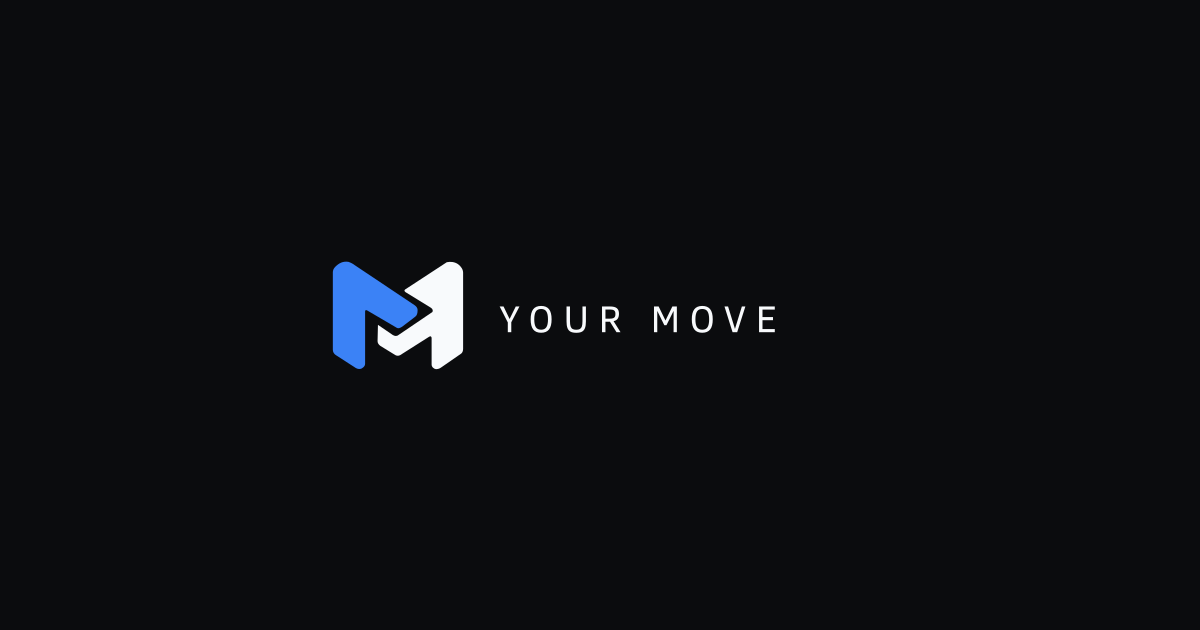
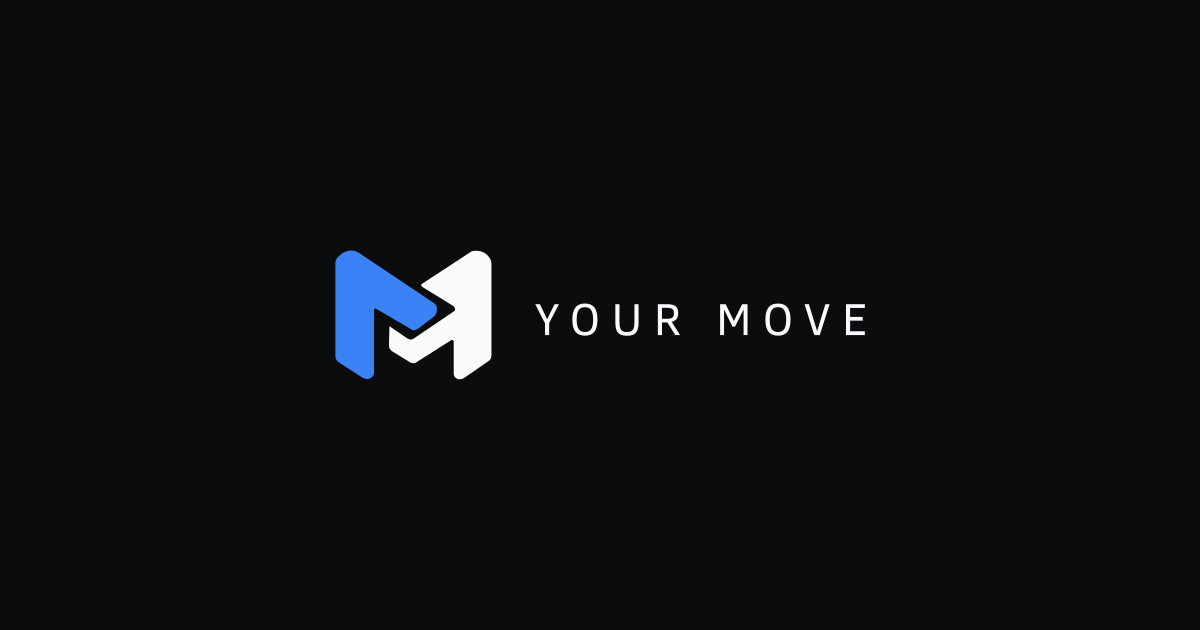
📝 docs(brand): update PNG export recipe and lockup specs
- Replace Inkscape CLI instructions with `sharp` Node.js library for PNG generation
- Update logo lockup viewBox from `0 0 1440 352` to `0 0 1202 352` with standardized padding
- Document open graph and preview image composition logic with precise dimensions and positioning
- Reflect updated logo dimensions in metadata (width 1202, megapixels 0.423)

Changed region(s): [[0.2775, 0.3921, 0.74, 0.6032]]

diff --git a/brand/README.md b/brand/README.md
@@ -32,6 +32,8 @@ It is drawn as filled Bézier paths, and the lettering is converted to outlines,
 
 `mark*` and `logo*` have transparent backgrounds; the mono variants are ice white. The `icon*` variants are opaque and square and leave launcher rounding to the operating system. The maskable variant keeps the whole mark inside Android's safe area.
 
+The lockup frame sits tight to the artwork: the three `logo*` variants share an identical `0 0 1202 352` viewBox with equal padding left and right (about 33px, matching the mark's framing) and equal padding top and bottom. Only the fills differ between variants, so every export centres without per-variant offsets.
+
 Default to the dark palette. On a light ground use the `-light` files so the companion half remains visible.
 
 ## Colours
@@ -59,36 +61,16 @@ The blue is a **brand colour, not a workflow-state colour**. The application's e
 
 ## Regenerate the PNGs
 
-Never edit a PNG. From the repository root, with Inkscape installed:
+Never edit a PNG. Exports are produced with `sharp`, already in `node_modules` — Inkscape is not required. The recipe throughout is `sharp(src).resize({ width }).png().toFile(out)`:
 
 ```sh
-for name in mark mark-light mark-mono; do
-  inkscape "brand/svg/$name.svg" --export-type=png \
-    --export-width=1200 --export-filename="brand/png/$name-1200.png"
-done
+node -e "require('sharp')('brand/svg/logo.svg').resize({ width: 2880 }).png().toFile('brand/png/logo-2880.png')"
 ```
 
-```sh
-for name in logo logo-light logo-mono; do
-  inkscape "brand/svg/$name.svg" --export-type=png \
-    --export-width=2880 --export-filename="brand/png/$name-2880.png"
-done
-```
+Marks export at width 1200 and icons at their listed sizes following the same pattern.
 
-```sh
-for size in 16 32 180 192 512 1024; do
-  inkscape brand/svg/icon.svg --export-type=png \
-    --export-width="$size" --export-filename="brand/png/icon-$size.png"
-done
-```
+The link preview is composed from the dark lockup and written to both `png/og-1200x630.png` and `app/opengraph-image.png`: a 1200x630 `#0B0C0E` canvas with `logo.svg` rendered at width 560, centred horizontally (left 320) and vertically (top `Math.round((630 - logoHeight) / 2)`).
 
-```sh
-for name in icon-light icon-maskable; do
-  inkscape "brand/svg/$name.svg" --export-type=png \
-    --export-width=512 --export-filename="brand/png/$name-512.png"
-done
-```
-
-The link preview is composed from the dark lockup and copied to `app/opengraph-image.png`.
+`preview.png` is composed the same way: a 1600x900 `#0B0C0E` canvas, a 1600x340 `#F8FAFC` band at top 560, `logo.svg` at width 1120 (left 240, top 120), `mark-light.svg` at width 420 (left 260, top 585) and `icon.svg` at width 250 (left 1080, top 605). Each element's box is centred in its area, so with centred artwork the composition lands centred too.
 
 Keep the emblem geometry consistent across every variant, and preserve the negative-space handoff channel in mono — it is what separates the two halves when the colour is gone.
